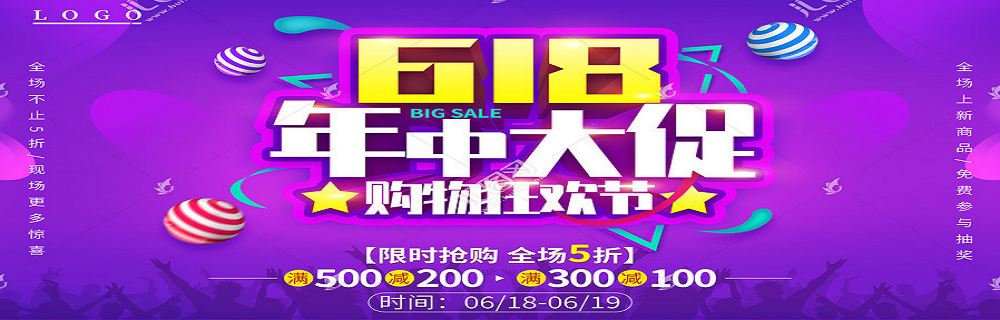
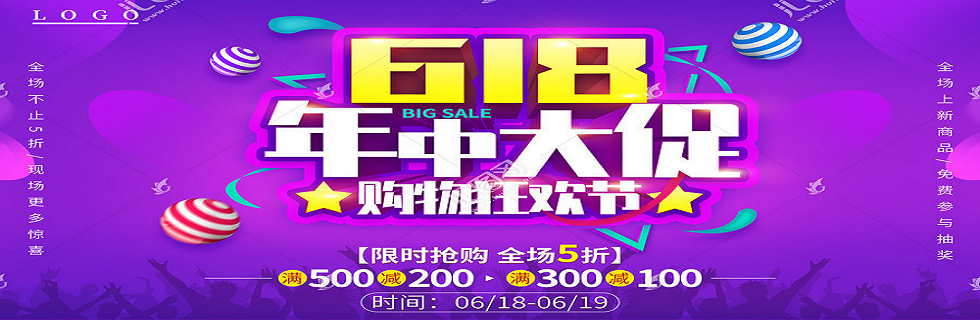
调整轮播图大小

diff --git a/src/assets/css/home.css b/src/assets/css/home.css
@@ -279,7 +279,7 @@ body{
 
 /*轮播图*/
 .home-container .carouseldiagram {
-    width: 1000px;
+    width: 980px;
     height: 320px;
     position: absolute;
     overflow: hidden;
@@ -345,7 +345,7 @@ body{
     grid-template-columns: 1fr 1fr 1fr 1fr;
     grid-template-rows: 200px 20px 20px;
     position: absolute;
-    width: 1000px;
+    width: 980px;
     height: 200px;
     left: 220px;
     top: 320px;
